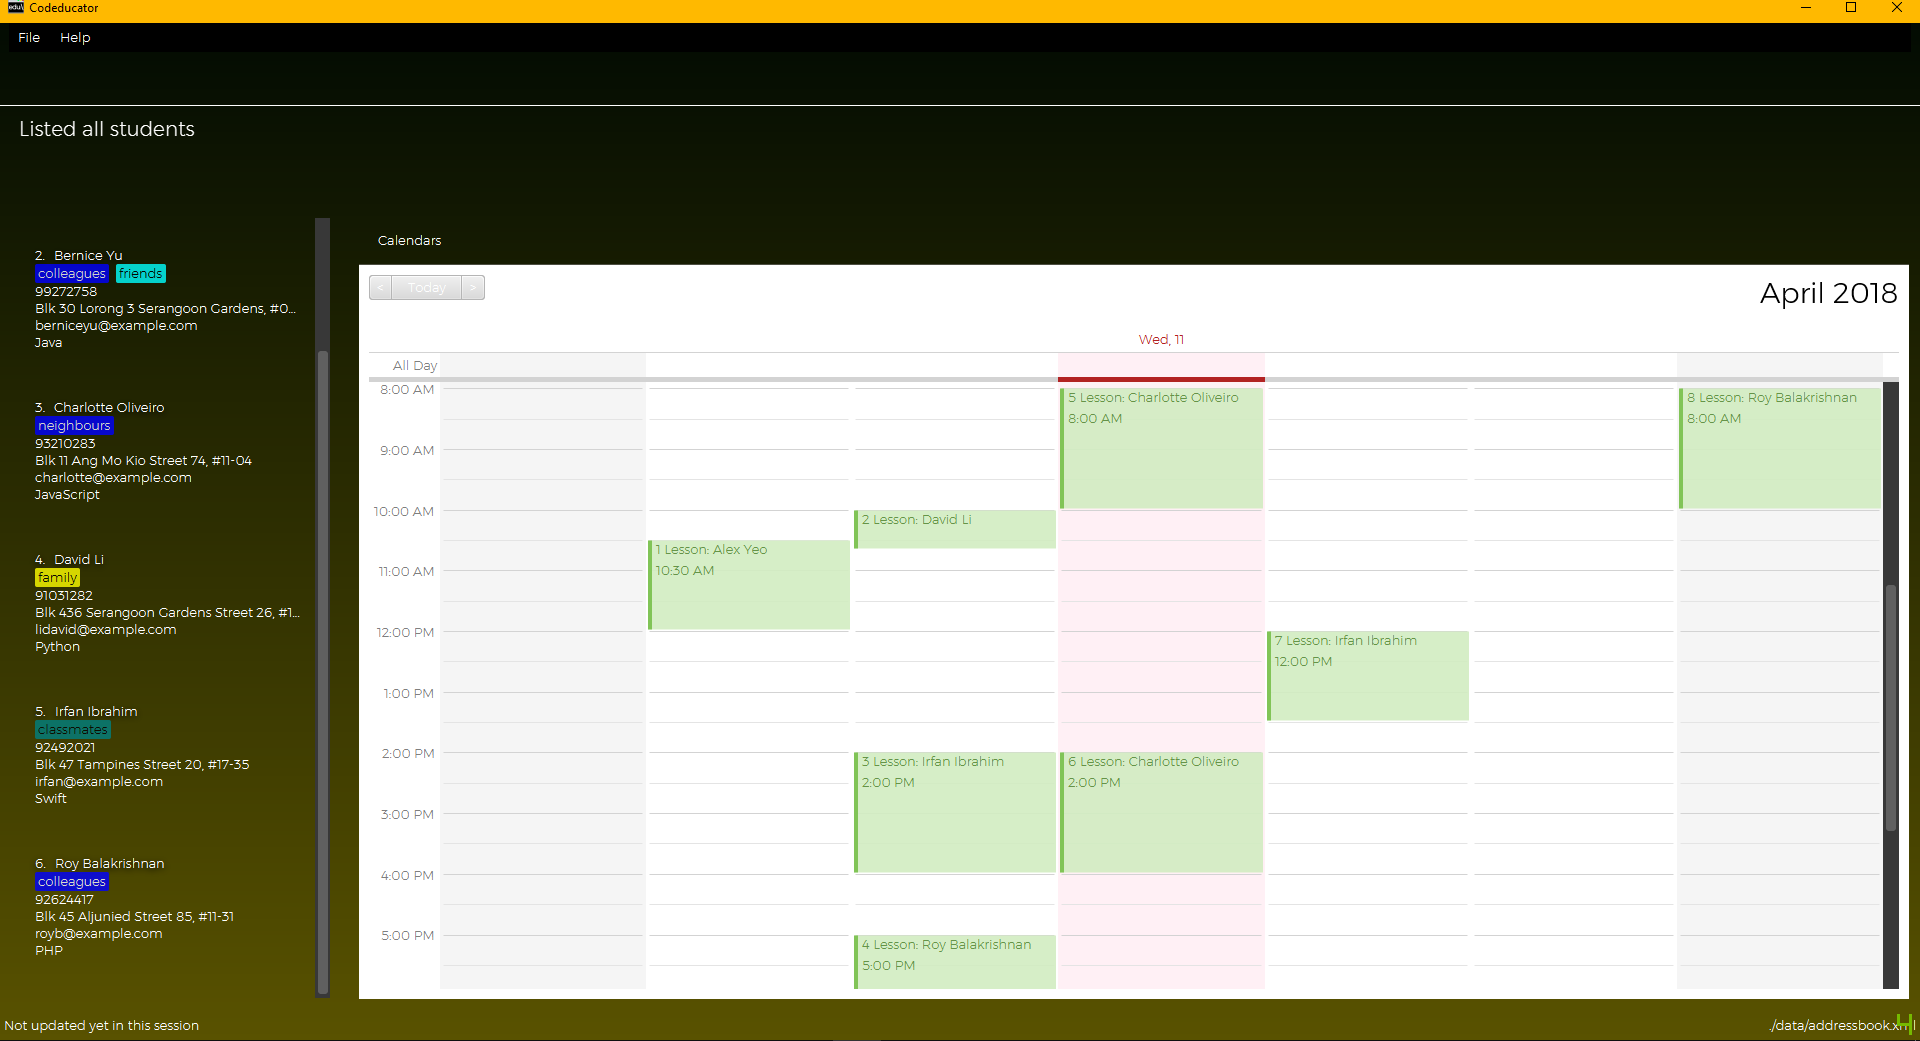
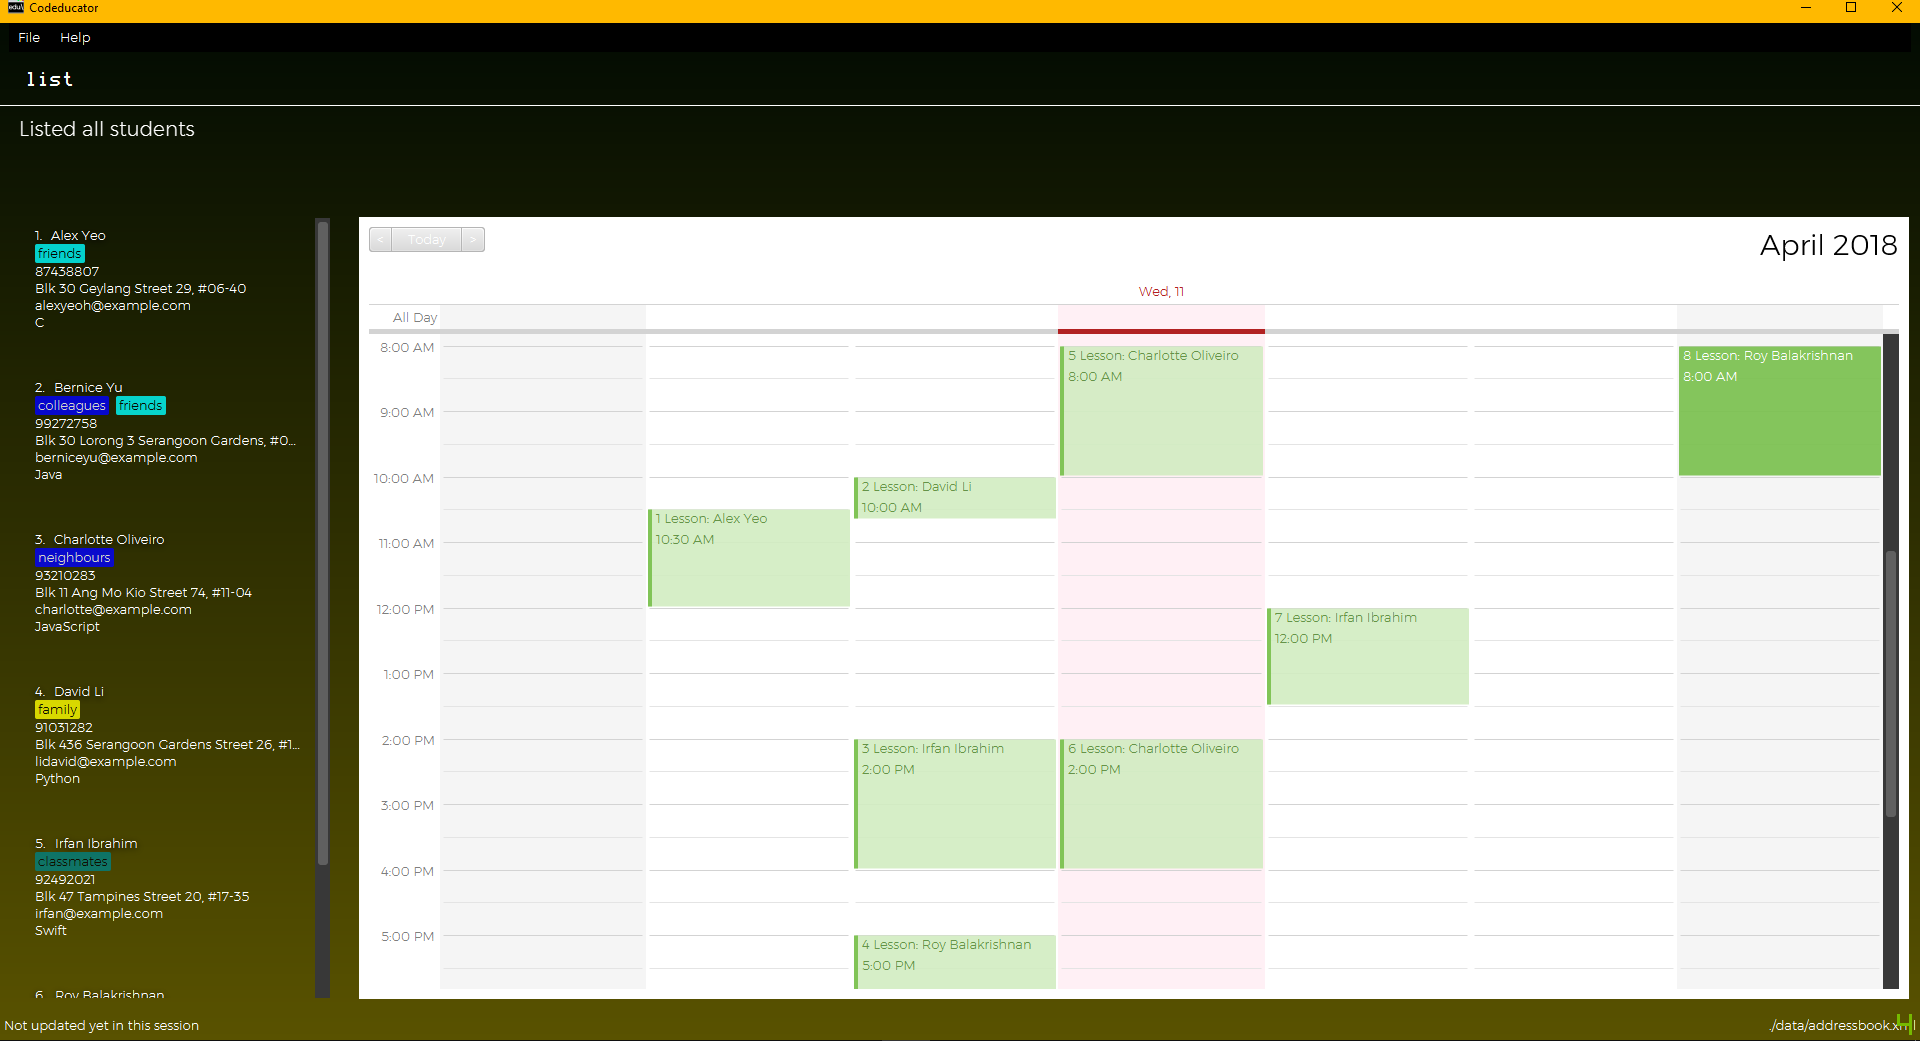
Fix UI.png

diff --git a/src/main/java/seedu/address/ui/CalendarPanel.java b/src/main/java/seedu/address/ui/CalendarPanel.java
@@ -86,7 +86,12 @@ public class CalendarPanel extends UiPart<CalendarView> {
         calendarView.setShowAddCalendarButton(false);
         calendarView.showWeekPage();
         calendarView.setShowDeveloperConsole(true);
+        calendarView.setShowSearchResultsTray(false);
+        calendarView.setShowToolBar(false);
+
         calendarView.setOnMouseClicked(null);
+
+        calendar.setReadOnly(true);
     }
 
     /**
